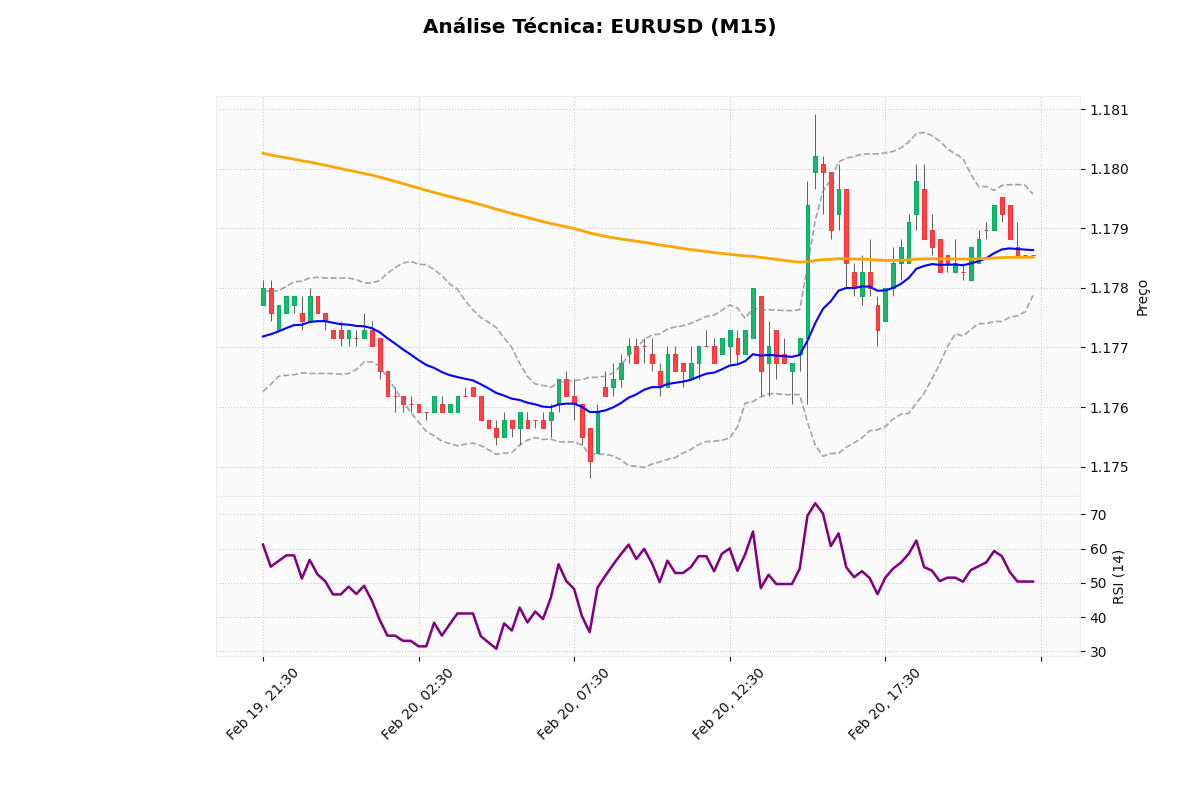
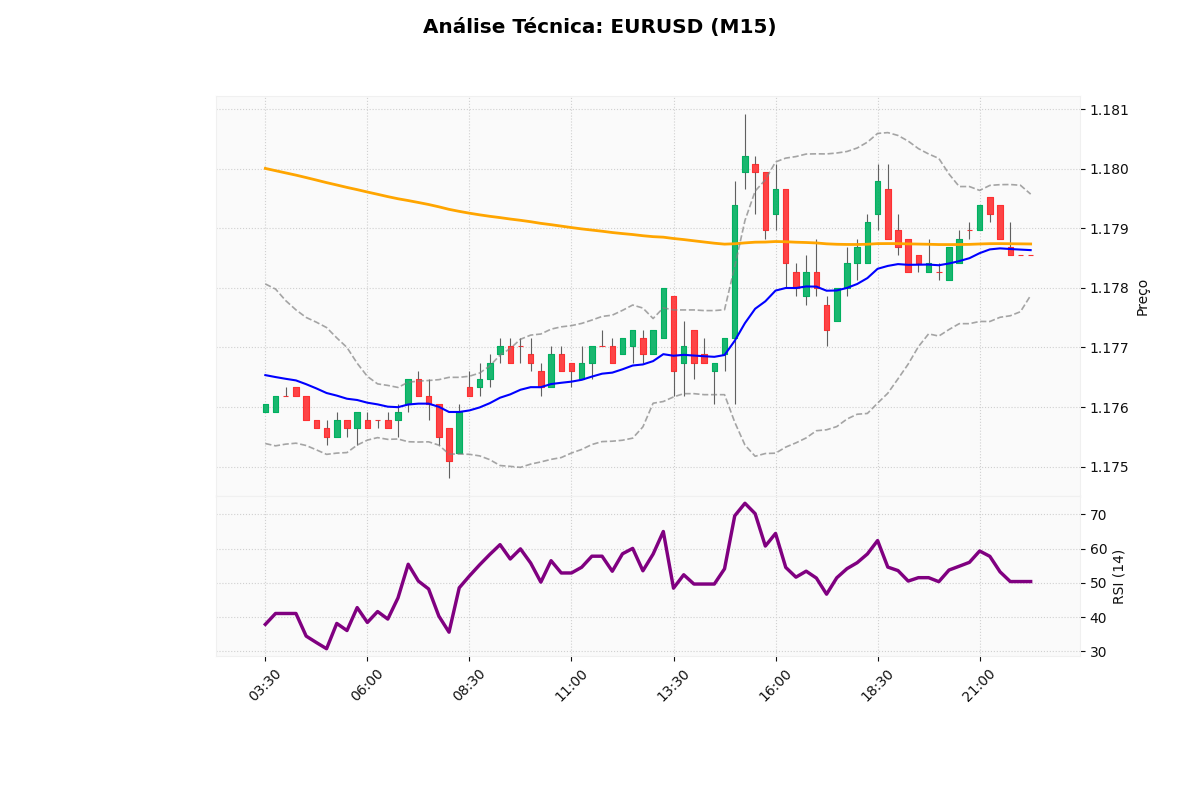
feat: refatoração completa para classe ForexBot e implementação de inteligência de sessões

diff --git a/app/forex_bot.py b/app/forex_bot.py
@@ -1,6 +1,6 @@
 import sys
 import os
-from datetime import datetime
+from datetime import datetime, timezone
 from data_feeds.price_api import PriceDataFeed
 from analysis.technical import TechnicalAnalyzer
 from analysis.charting import ChartGenerator
@@ -14,15 +14,58 @@ class ForexBot:
     def limpar_ecra(self):
         os.system('cls' if os.name == 'nt' else 'clear')
 
+    def obter_contexto_sessao(self, df):
+        """Identifica a sessão atual e calcula o Range Asiático (00:00 - 08:00 UTC)"""
+        agora_utc = datetime.now(timezone.utc)
+        hora_utc = agora_utc.hour
+        
+        # 1. Identificar Sessão Atual
+        if 0 <= hora_utc < 8: sessao = "ASIÁTICA 🇯🇵"
+        elif 8 <= hora_utc < 13: sessao = "EUROPEIA 🇪🇺 (Londres)"
+        elif 13 <= hora_utc < 17: sessao = "SOBREPOSIÇÃO 🇪🇺/🇺🇸 (Overlap)"
+        elif 17 <= hora_utc < 21: sessao = "AMERICANA 🇺🇸 (NY)"
+        else: sessao = "FECHAMENTO/PRE-ASIA 💤"
+
+        # 2. Calcular Máxima e Mínima da Ásia (00:00 às 08:00 UTC do dia atual)
+        # Filtramos o DataFrame para pegar apenas as velas desse intervalo
+        df_hoje = df[df.index.date == agora_utc.date()]
+        df_asia = df_hoje[(df_hoje.index.hour >= 0) & (df_hoje.index.hour < 8)]
+        
+        contexto_msg = f"Sessão Atual: {sessao}"
+        
+        if not df_asia.empty:
+            max_asia = df_asia['High'].max()
+            min_asia = df_asia['Low'].min()
+            preco_atual = df['Close'].iloc[-1]
+            
+            # 3. Lógica de Viés (Londres abriu?)
+            if hora_utc >= 8:
+                if preco_atual > max_asia:
+                    contexto_msg += f"\n⚠ Contexto: Preço ACIMA do topo da Ásia ({max_asia:.5f}). Viés Comprador 🟢"
+                elif preco_atual < min_asia:
+                    contexto_msg += f"\n⚠ Contexto: Preço ABAIXO do fundo da Ásia ({min_asia:.5f}). Viés Vendedor 🔴"
+                else:
+                    contexto_msg += f"\n⚠ Contexto: Preço dentro do Range da Ásia. Consolidação ⏸"
+            else:
+                contexto_msg += f"\n📊 Range Ásia em formação: Máx {max_asia:.5f} | Mín {min_asia:.5f}"
+        
+        return contexto_msg
+
     def exibir_relatorio_completo(self):
         print(f"\n\n⏳ A gerar relatório estratégico completo para {self.par}...")
         try:
             alimentador = PriceDataFeed(self.par)
-            df = alimentador.obter_historico_velas(periodo="20d", intervalo="15m")
+            df = alimentador.obter_historico_velas(periodo="5d", intervalo="15m")
             analista = TechnicalAnalyzer(df)
             df_tec = analista.calcular_indicadores()
             estrategista = SignalGenerator(df_tec)
             
+            # NOVO: Obtém o contexto de sessão
+            contexto = self.obter_contexto_sessao(df_tec)
+            
+            print("-" * 50)
+            print(contexto) # Exibe o contexto no topo do relatório
+            print("-" * 50)
             print(analista.gerar_resumo_atual())
             print(estrategista.analisar_e_sugerir())
             
@@ -34,34 +77,43 @@ class ForexBot:
             print(f"❌ Erro no relatório: {e}")
 
     def atualizar_radar(self):
-        """Lógica do Scanner que fica na linha de fundo"""
-        try:
-            alimentador = PriceDataFeed(self.par)
-            df = alimentador.obter_historico_velas(periodo="5d", intervalo="15m")
-            analista = TechnicalAnalyzer(df)
-            df_tec = analista.calcular_indicadores()
-            
-            ultima = df_tec.iloc[-1]
-            preco_atual = ultima['Close']
-            rsi = ultima['RSI_14']
-            
-            # Comparação de Preço
-            if self.ultimo_preco == 0.0:
-                info_p = f"💵 {preco_atual:.5f}"
-            else:
-                seta = "⬆" if preco_atual > self.ultimo_preco else "⬇" if preco_atual < self.ultimo_preco else "⏸"
-                info_p = f"💵 {preco_atual:.5f} ({seta})"
+            """Lógica do Scanner que fica na linha de fundo do terminal"""
+            try:
+                # 1. Busca os dados mais recentes
+                alimentador = PriceDataFeed(self.par)
+                df = alimentador.obter_historico_velas(periodo="2d", intervalo="15m")
+                analista = TechnicalAnalyzer(df)
+                df_tec = analista.calcular_indicadores()
+                
+                ultima = df_tec.iloc[-1]
+                preco_atual = ultima['Close']   
+                rsi = ultima['RSI_14']
+                
+                # 2. Lógica de Comparação de Preço (Setas)
+                if self.ultimo_preco == 0.0:
+                    info_p = f"💵 {preco_atual:.5f}"
+                else:
+                    seta = "⬆" if preco_atual > self.ultimo_preco else "⬇" if preco_atual < self.ultimo_preco else "⏸"
+                    info_p = f"💵 {preco_atual:.5f} ({seta})"
 
-            self.ultimo_preco = preco_atual # Guarda na memória da classe
-            
-            # Status de oportunidade
-            ema20, ema200 = ultima['EMA_20'], ultima['EMA_200']
-            status = "⏳"
-            if (ema20 > ema200 and rsi <= 45): status = "🔥 COMPRA?"
-            elif (ema20 < ema200 and rsi >= 55): status = "🔥 VENDA?"
+                self.ultimo_preco = preco_atual 
+                
+                # 3. Identificação da Sessão (Horário UTC)
+                agora_utc = datetime.now(timezone.utc)
+                hora_utc = agora_utc.hour
+                
+                if 0 <= hora_utc < 8: s_icon = "🇯🇵 ASIA"
+                elif 8 <= hora_utc < 13: s_icon = "🇪🇺 LONDRES"
+                elif 13 <= hora_utc < 17: s_icon = "🇪🇺/🇺🇸 OVERLAP"
+                elif 17 <= hora_utc < 21: s_icon = "🇺🇸 NY"
+                else: s_icon = "💤 PRE-ASIA"
 
-            hora = datetime.now().strftime("%H:%M:%S")
-            sys.stdout.write(f"\r📡 [{hora}] {self.par} | {info_p} | RSI: {rsi:.1f} | Status: {status}      ")
-            sys.stdout.flush()
-        except:
-            pass
+                # 4. Impressão da Linha Única
+                hora_local = agora_utc.strftime("%H:%M:%S")
+                sys.stdout.write(f"\r📡 [{hora_local}] {self.par} | {info_p} | RSI: {rsi:.1f} | SESSÃO: {s_icon}       ")
+                sys.stdout.flush()
+                
+            except Exception as e:
+                # Se quiser ver o erro para debugar, pode descomentar a linha abaixo:
+                # print(f"Erro no radar: {e}")
+                pass

diff --git a/main.py b/main.py
@@ -33,3 +33,4 @@ def main():
 
 if __name__ == "__main__":
     main()
+    
